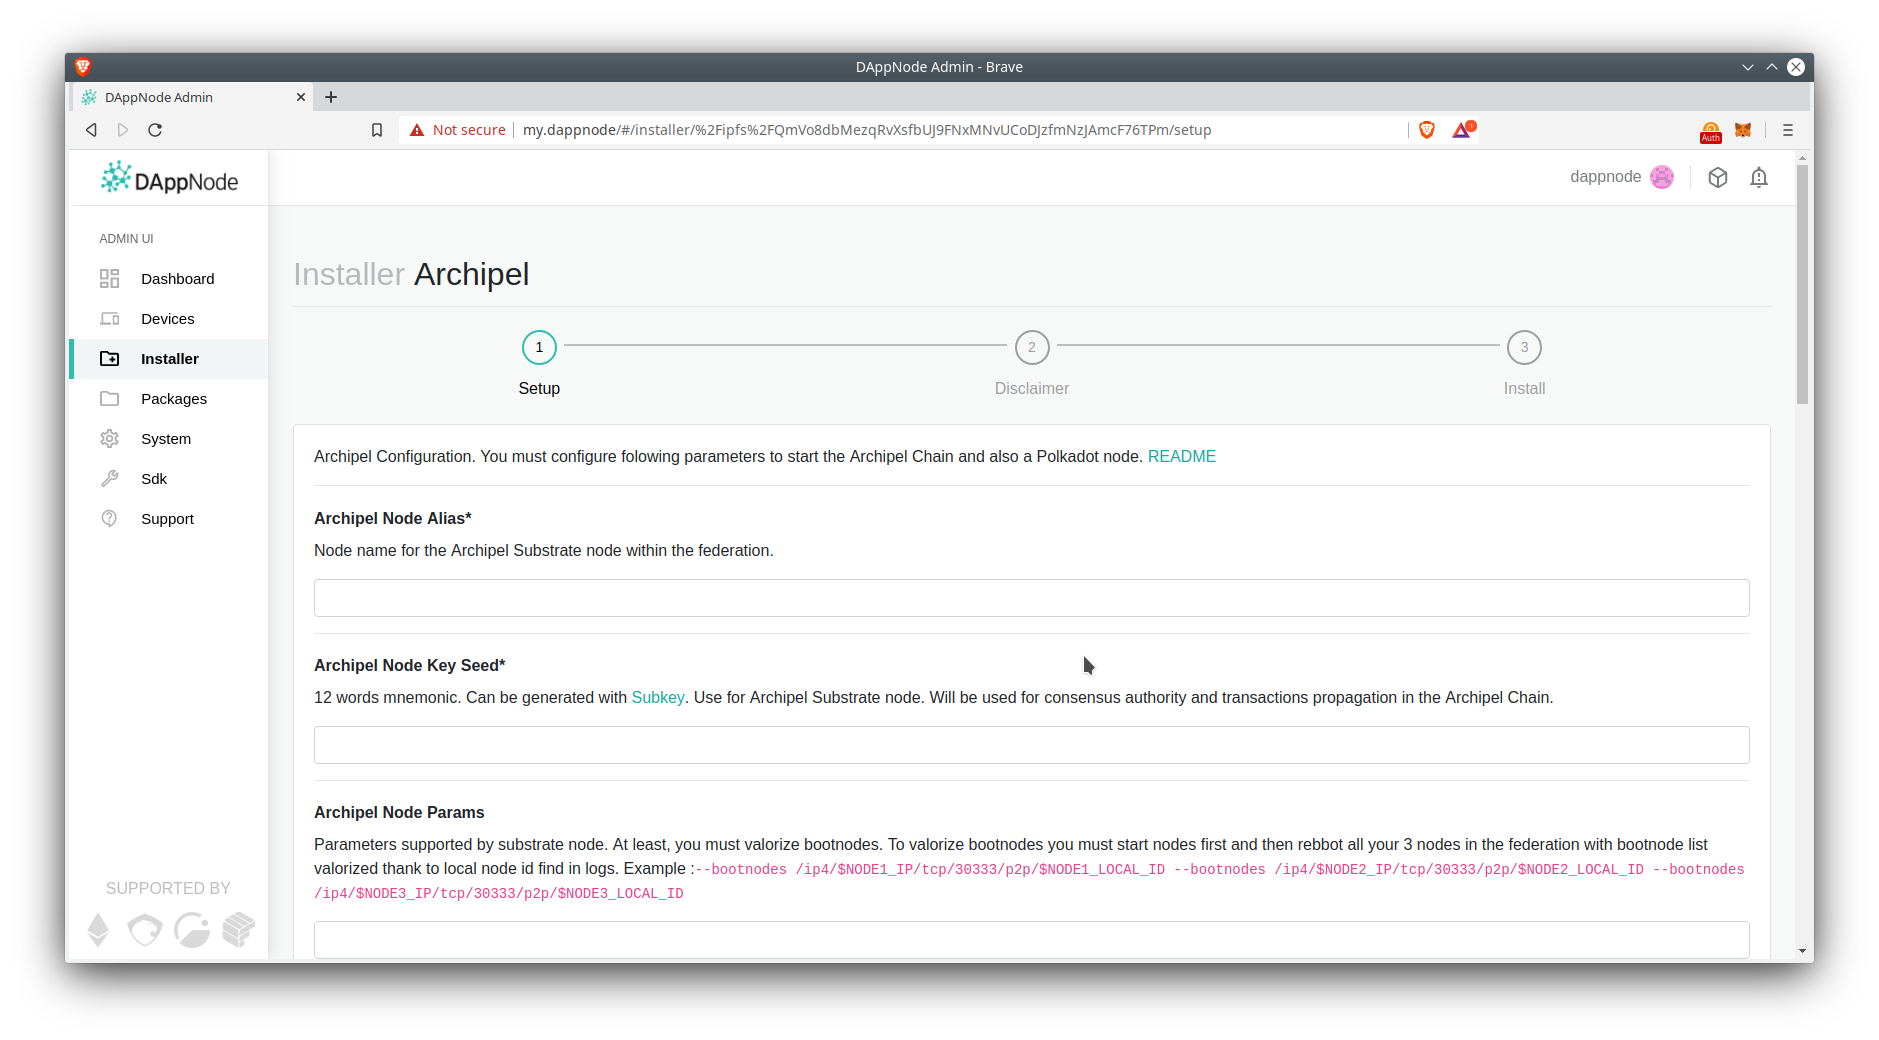
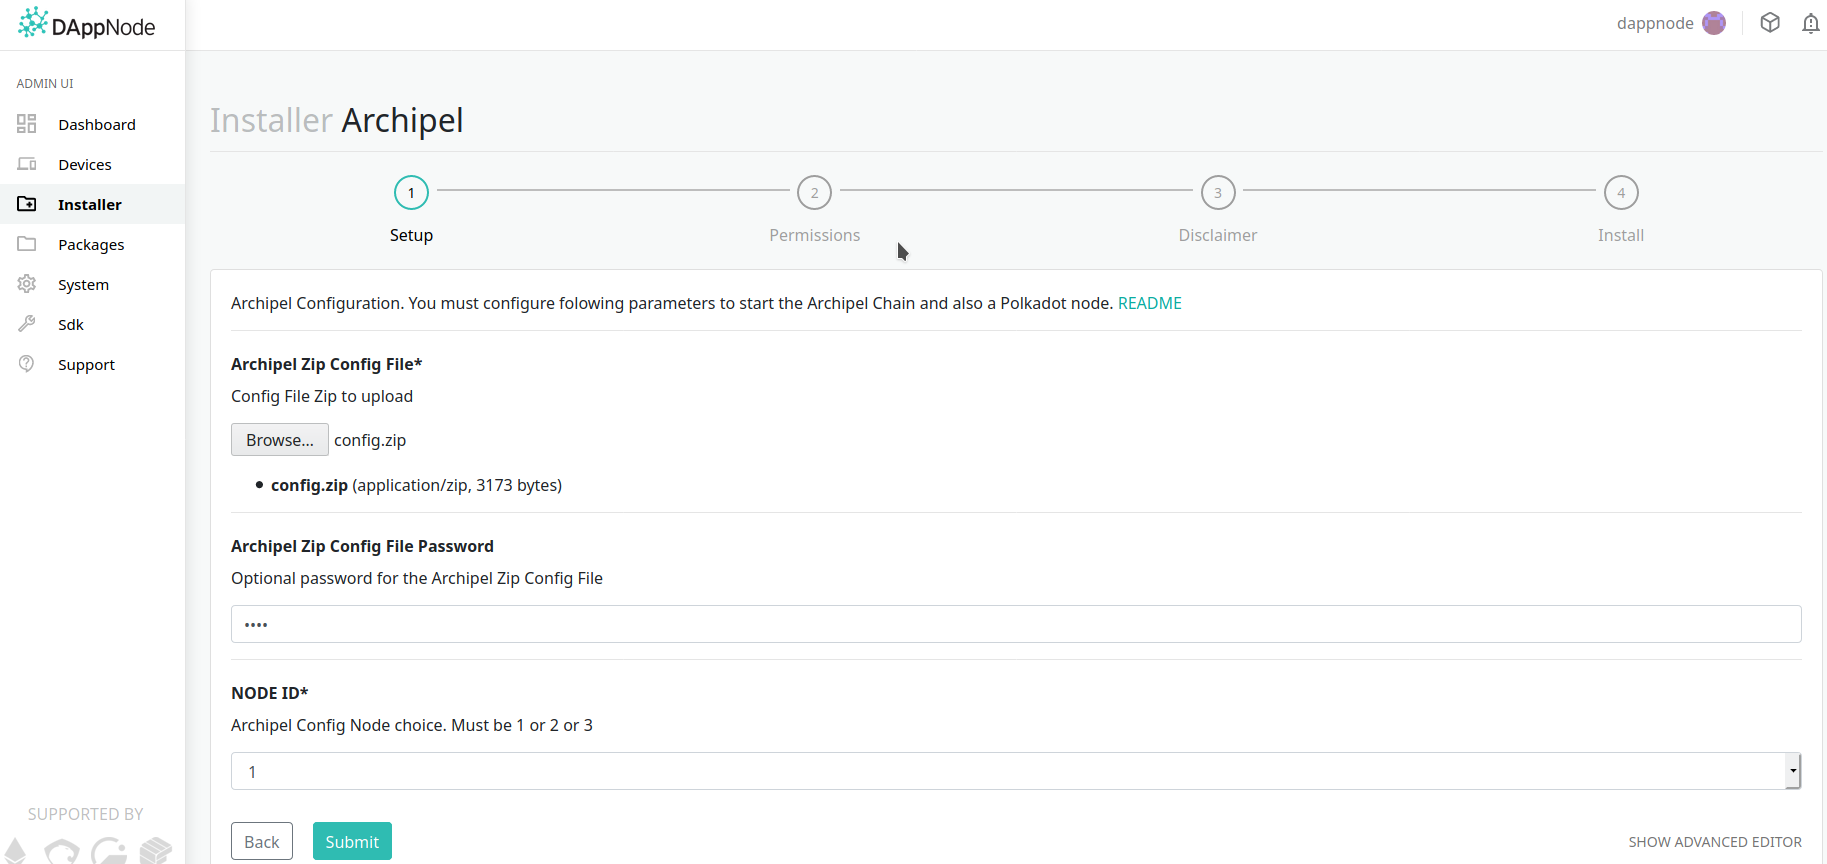
[doc] update doc deploy on dappnode

diff --git a/doc/deployment-on-dappnodes.md b/doc/deployment-on-dappnodes.md
@@ -1,26 +1,84 @@
-# Archipel Deployment on DAppNodes 
+# Archipel Deployment on DAppNodes
 
-## Install DAppNode
 
-If you do not have physical devices. You can [buy](https://shop.dappnode.io/) hardware with DAppNode full ready to start.
+## DAppNodes Packages
+
+There are 4 DappNode Packages available:
+
+### [archipel](https://github.com/luguslabs/DAppNodePackage-archipel)
+
+The main DAppNode Package is called is [archipel](https://github.com/luguslabs/DAppNodePackage-archipel).
+
+It is released under the DNP `archipel.public.dappnode.eth`. This package is a wrapper of the [luguslab/archipel docker image](https://hub.docker.com/r/luguslabs/archipel) generated by [this Dockerfile](https://github.com/luguslabs/archipel/blob/master/deployer/archipel/Dockerfile). It contains
+- a secure wireguard setup to create private secure network access between remote dappnode hardware.
+- orchestrator: that ensure the HA feature
+- chain : the shared state between the federation.
+
+### [archipel-ui](https://github.com/luguslabs/DAppNodePackage-archipel-ui)
+ The second DAppNode Package is [archipel-ui](https://github.com/luguslabs/DAppNodePackage-archipel-ui).
+
+It is released under the DNP `archipel-ui.public.dappnode.eth`.  This package is a wrapper of the [luguslab/archipel-ui docker image](https://hub.docker.com/r/luguslabs/archipel-ui) generated by [this Dockerfile](https://github.com/luguslabs/archipel/blob/master/ui/Dockerfile). It provides live metrics of the federation and administration actions.
+
+This UI package can be installed separately from the main archipel. In this case, you must target an existing HTTP API Endpoint from an existing archipel running. The package UI is automatically installed as a dependency of the main archipel DAppNode Package. In this case, API URL default value is automatically valorize to target your local DApppNode archipel instance.
+
+There are also 2 optional DappNode Packages that you can install to bootstrap a private Telemetry Substrate instance.
+
+
+### [substrate-telemetry-archipel](https://github.com/luguslabs/DAppNodePackage-substrate-telemetry)
+
+It is released under the DNP `substrate-telemetry-archipel.public.dappnode.eth`.  This package is a wrapper of the [Parity Substrate Telemetry](https://github.com/paritytech/substrate-telemetry) generated by [this Dockerfile](https://github.com/luguslabs/DAppNodePackage-substrate-telemetry/blob/master/build/Dockerfile).
+
+If the env variable `REMOTE_PUBLIC_IP_TELEMETRY_BACKEND` is not set (default mode), a backend is started locally and automatically targeted. If the IP is set, the frontend target the IP backend and local telemetry backend service is not started. It is why there is also the next package when you want to only install the backend and separate the frontend and backend on different DAppNode instances.
+
+
+### [substrate-telemetry-archipel](https://github.com/luguslabs/DAppNodePackage-substrate-telemetry-backend)
+
+It is released under the DNP `substrate-telemetry-backend-archipel.public.dappnode.eth`.  This package is a wrapper of the [Parity Substrate Telemetry](https://github.com/paritytech/substrate-telemetry) generated by [this Dockerfile](https://github.com/luguslabs/DAppNodePackage-substrate-telemetry-backend/blob/master/build/Dockerfile).
+
+In the following paragraph, we will detail how to install `archipel` and `archipel-ui` on DAppNode interface.
+
+## Install Archipel on DAppNode
+
+If you do not have physical devices. You can [buy](https://shop.dappnode.io/) hardware with DAppNode fully ready to start.
 
 On your physical device, [install DAppNode](https://dappnode.github.io/DAppNodeDocs/install/) ISO image or launch the DAppNode init script.
 
 
-You will have to wait the main ethereum dappnode package to be synch to be able to install from the DNP name : `archipel.public.dappnode.eth`.
 
-## Prerequiste
-
-- Generate/ask for keys for the Archipel federation you want to create/join. See [Archipel keys generation doc](./archipel-keys-initialization.md).
+## Prerequisite
 
 - Generate/ask for keys for the Polkadot validator node setup you want to create/join. See [Polkadot keys generation doc](./polkadot-keys-initialization.md).
+
+- Generate/ask the Archipel federation config you want to create/join. See [Archipel CLI doc](https://github.com/luguslabs/archipel/tree/master/cli).
+
+- DppNode ISO installed + **wireguard installed**
+
+**WARNING** : Your dappnode must have [**wireguard**](https://www.wireguard.com/)  installed as a prerequisite !!
+
+You can find the DAppNode ISO with wireguard in [this DAppNode_Installer fork](https://github.com/luguslabs/DAppNode_Installer). You can also follow and claim [on this current issue](https://github.com/dappnode/DAppNode_Installer/pull/73) on DAppNode GitHub to be merge or implemented.
+In some hardware, you have to deactivate secure boot in BIOS for wireguard to work properly.
+
+- Configure your IPS router/firewall
+
+
+
+  - For security reason, we advise to deactivate UPnP IGD service.
+  - Add your dappnode equipment to a fix DHCP address.
+  - In NAT/PAT tab, open UDP wireguard port 51820 on your equipment.
+  - Optional: if you use DAppNode device VPN feature, you will need to open also the 1194 UDP port.
+
+
 
 
 ## Install Archipel DAppNode Package
 
 - Connect to you DAppNode interface : http://my.dappnode/
-- Go to install tab : http://my.dappnode/#/installer 
+- Go to install tab : http://my.dappnode/#/installer
 - Search with DNP `archipel.public.dappnode.eth` or with latest IPFS hash that can be find on [DAppNodePackage archipel releases](https://github.com/luguslabs/DAppNodePackage-archipel/releases)
+
+note :
+You will have to wait for the main ethereum dappnode package to be synched to be able to install from the DNP name: `archipel.public.dappnode.eth`.
+If you do not want to wait to be synch you can still install with direct IPFS link hash present in [releases](https://github.com/luguslabs/DAppNodePackage-archipel/releases) but you will have to switch the "Bypass core restriction" button.
 
 - Click install. http://my.dappnode/#/installer/archipel.public.dappnode.eth
 
@@ -28,63 +86,63 @@ You will have to wait the main ethereum dappnode package to be synch to be able 
   <img src=./images/deployment-on-dappnodes-install.png width = 800>
 </p>
 
-- Configure env variables thanks to [Archipel environment variables description](https://github.com/luguslabs/DAppNodePackage-archipel#configuration-env-parameters-needed) and keys from [Prerequiste generations keys](#Prerequiste) step.
+- You must upload the ZIP config. ZIP from the [Prerequiste config](#Prerequiste) step.
+- You must valorize 2 [Environment Variables](https://github.com/luguslabs/DAppNodePackage-archipel#with-config-file) :
+  - `CONFIG_FILE_PASSWORD` : if zip config has been crypted.
+  - `NODE_ID`: select archipel instance  you want to launch : 1 or 2 or 3 :
 
-Note :
-
-For a first start `ARCHIPEL_CHAIN_ADDITIONAL_PARAMS` variable will be empty. All 3 nodes of the archipel must be start first before being able to valorize bootnodes list in `ARCHIPEL_CHAIN_ADDITIONAL_PARAMS`.
 
 <p align="center">
   <img src=./images/deployment-on-dappnodes-configure.png width = 800>
 </p>
 
-- Accept disclamer
+- Accept disclaimer
 
 You can go now to the logs tab of the package to check logs start and retrieve your peer id.
 
 ## Check Archipel DAppNode Package Logs
 
-- Connect to you DAppNode inerface : http://my.dappnode/
-- Go to http://my.dappnode/#/packages tab 
+- Connect to you DAppNode interface : http://my.dappnode/
+- Go to http://my.dappnode/#/packages tab
 - Click on Archipel Package
-- Go to Logs Tabs : http://my.dappnode/#/packages/archipel.public.dappnode.eth/logs
+- Go to Logs Tab: http://my.dappnode/#/packages/archipel.public.dappnode.eth/logs
 
 <p align="center">
   <img src=./images/deployment-on-dappnodes-logs.png width = 800>
 </p>
 
-- In logs you must see logs from the archipel chain and the orchestrator.
+- In archipel logs you must see archipel chain and the orchestrator started to operate :
 
-## Configure Bootnode list and restart.
+  http://my.dappnode/#/packages/archipel.public.dappnode.eth/logs
 
-From [Archipe DAppNode Package logs](#check-archipel-dappnode-package-logs), extact Peer ID from logs here :
+- archipel ui dependency has been automatically installed. You can see the access point in logs after the  message: `Archipel UI website go to: http://172.33.0.X`
 
-```bash
---------------- Chain node network state and health ----------------
-Peer ID: Qmevr1WeqWtWeWXvvo5daTqbHFpED3d9EpxrL4ftzZQUBy
-Peer number: 0
-Is syncing?: false
---------------------------------------------------------------------
-```
+  http://my.dappnode/#/packages/archipel-ui.public.dappnode.eth/logs
 
-Then you must update a `ARCHIPEL_CHAIN_ADDITIONAL_PARAMS` in
-http://my.dappnode/#/packages/archipel.public.dappnode.eth/config
- with :
 
-`--bootnodes /ip4/$NODE1_IP/tcp/30333/p2p/$NODE1_PEER_ID --bootnodes /ip4/$NODE2_IP/tcp/30333/p2p/$NODE2_PEER_ID --bootnodes /ip4/$NODE3_IP/tcp/30333/p2p/$NODE3_PEER_ID`
+## Overwrite default Archipel DAppNode Package Config
 
-Then Restart all nodes of the archipel with the new `ARCHIPEL_CHAIN_ADDITIONAL_PARAMS` env varibale updated.
+To show how to overwrite a config variable, we will take the example of the `POLKADOT_TELEMETRY_URL` env variable. By default, this env variable is empty, so you must see your node in the official telemetry URL : telemetry.polkadot.io/ when the orchestrator starts the Polkadot service.
+If you set up a private telemetry instance, you may prefer to target this one. To do so :
+- Go to tab : http://my.dappnode/#/packages/archipel.public.dappnode.eth/config
+- Valorize the `POLKADOT_TELEMETRY_URL`  variable with your prefered endpoint like : `ws://TELEMETRY_BACKEND_PUBLIC_IP:8000/submit`
+- Click on `"update environment variables"` button. It will restart archipel package with the new env variable set.
+
+Often, the only variables from the full [env list here](https://github.com/luguslabs/DAppNodePackage-archipel#without-config-file) you need to update are:  `POLKADOT_TELEMETRY_URL` and `ARCHIPEL_TELEMETRY_URL`.
+
 
 ## Restart a Archipel Package Node
 
-- Connect to you DAppNode inerface : http://my.dappnode/
+- Connect to you DAppNode interface: http://my.dappnode/
 - Go to package tab http://my.dappnode/#/packages
-- click on Archipel Package  
-- click on Controls tab  :http://my.dappnode/#/packages/archipel.public.dappnode.eth/controls
+- Click on Archipel Package  
+- Click on Controls tab:http://my.dappnode/#/packages/archipel.public.dappnode.eth/controls
 - click restart.
 
 ## Check Archipel Node Status
 
 - You can check [Archipel DAppnodePackage logs](#check-archipel-dappnode-package-logs)
-- You can see your external service node polkadot with -active  or -passive suffix in [Polkadot Telemetry](https://telemetry.polkadot.io/#/Kusama%20CC3)
-- Soon [Archipel UI](https://github.com/luguslabs/archipel/tree/master/ui) will be availbale also as a DappNode package to also check your current archipel status.
+- Access [Archipel UI](https://github.com/luguslabs/archipel/tree/master/ui)
+- Access [ public Polkadot Telemetry](https://telemetry.polkadot.io/) or [Private Substrate Telemetry](https://github.com/luguslabs/DAppNodePackage-substrate-telemetry) deploy by yourself.
+
+
